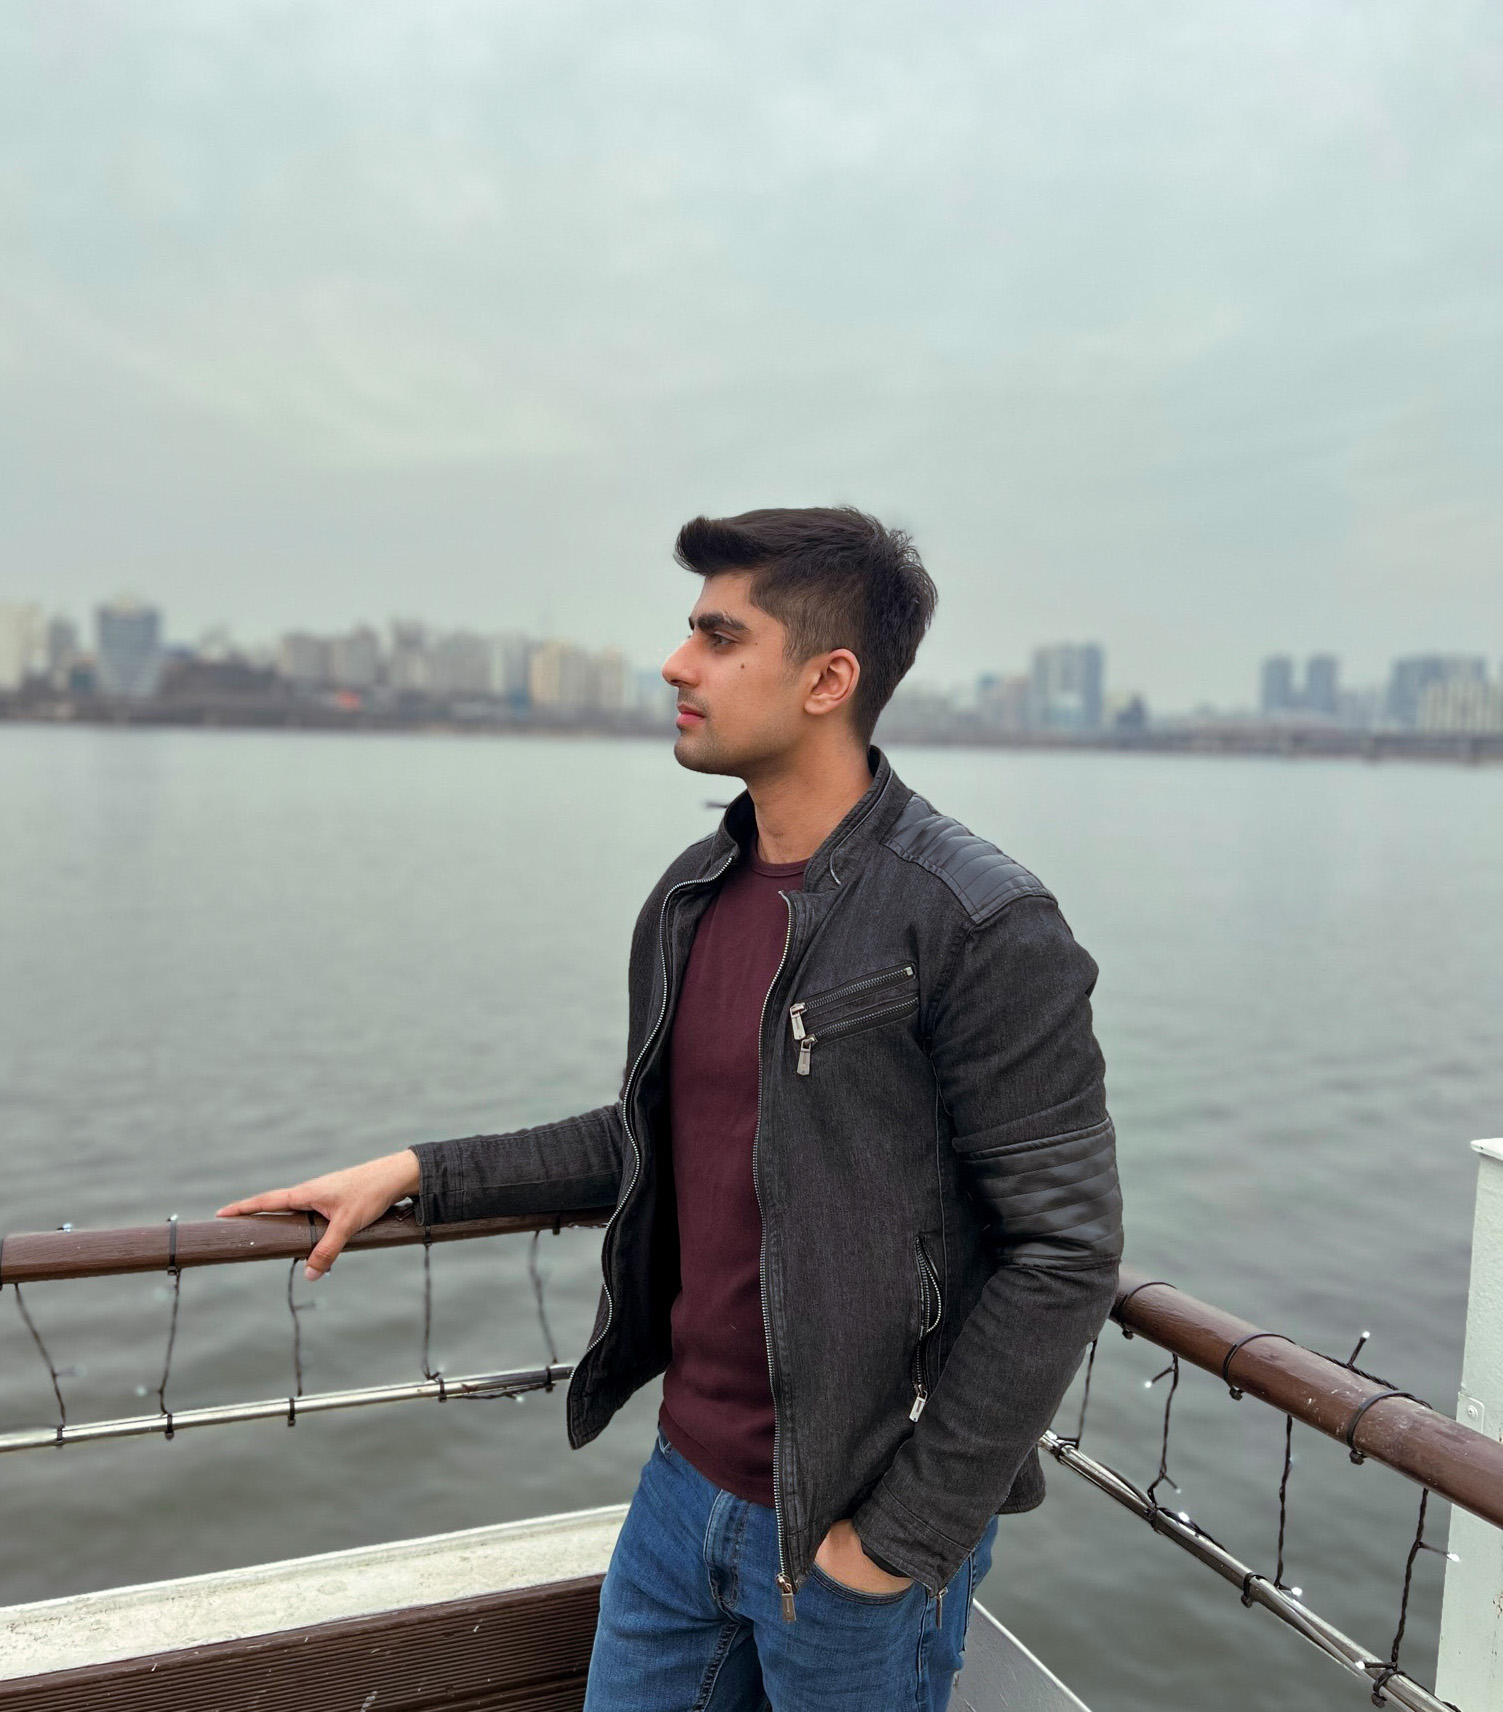
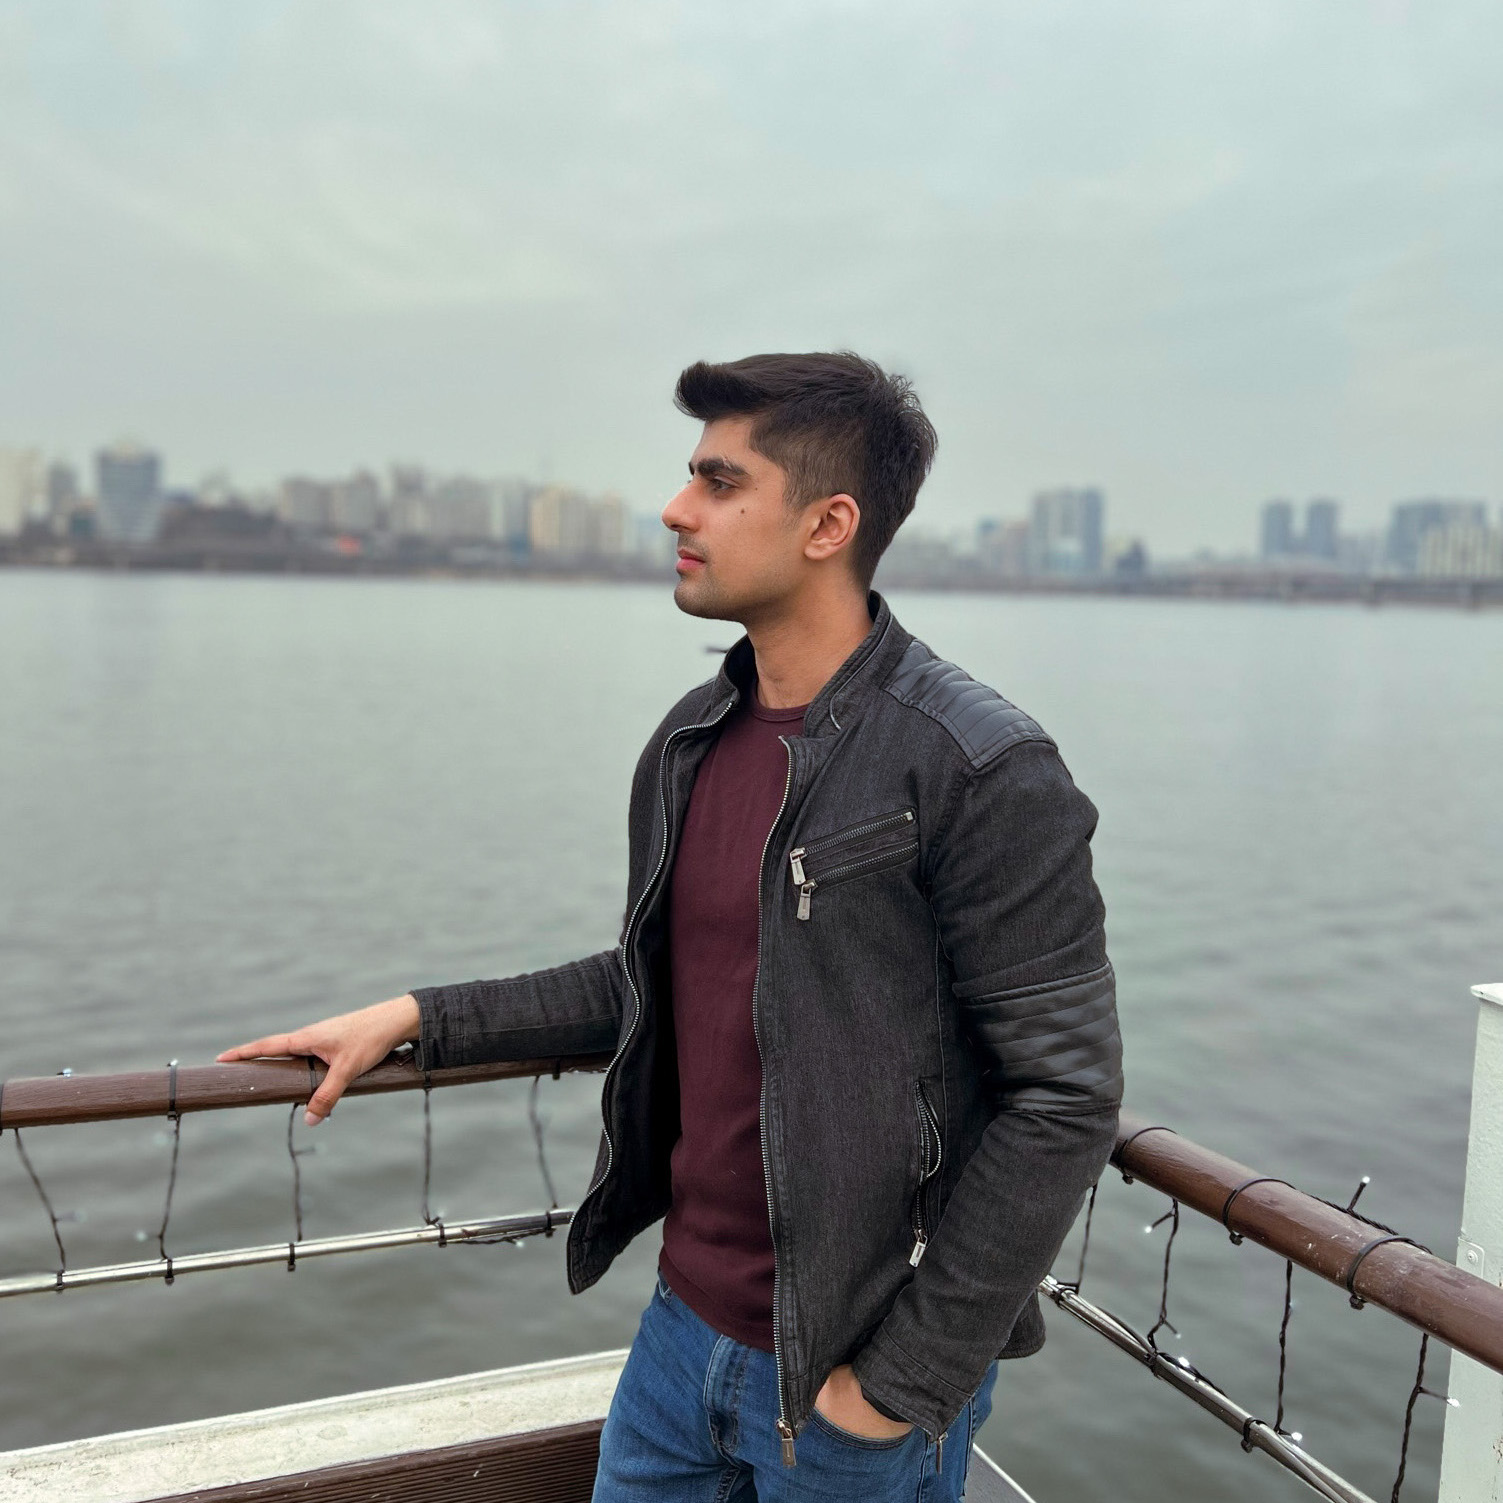
Updated Metadata and ProfImage

Changed region(s): [[0.0, 0.2142, 1.0, 0.7345], [0.0, 0.7345, 1.0, 1.0], [0.9794, 0.6427, 1.0, 0.7039]]

diff --git a/_includes/metadata.html b/_includes/metadata.html
@@ -29,14 +29,14 @@
         {%- if page.title == nil or page.title == "" -%}
             {{ page.date | date: "%Y" }} | {{ title }}
         {%- else -%}
-            {{ page.title }} | {{ title }}
+            {{ page.title }} 
         {%- endif -%}
     {%- else -%}
         {{ title }}
     {%- endif -%}
     </title>
     <meta name="author" content="{{ site.first_name }} {{ site.middle_name }} {{ site.last_name }}" />
-    <meta name="description" content="{%- if page.description -%}{{ page.description }}{%- else -%}{{ site.description }}{%- endif -%}" />
+    <meta name="description" content="{%- if page.description -%}{{ page.description }}{%- else -%}{{ page.title }}{%- endif -%}" />
 {%- if page.keywords or site.keywords %}
     <meta name="keywords" content="{%- if page.keywords -%}{{ page.keywords }}{%- else -%}{{ site.keywords }}{%- endif -%}" />
 {%- endif %}

diff --git a/_pages/about.md b/_pages/about.md
@@ -7,7 +7,7 @@ subtitle: <a href=https://www.kaist.ac.kr/en/>KAIST</a> <a href=https://gsai.kai
 profile:
   align: right
   image: prof_pic.jpg
-  image_circular: false # crops the image to make it circular
+  image_circular: true # crops the image to make it circular
   address: >
     <small> Address: Kim Jaechul AI Graduate School, Building 9,
     85 Hoegi-ro, Cheongnyangri-dong, Dongdaemun-gu, Seoul </small>
@@ -19,9 +19,8 @@ social: true  # includes social icons at the bottom of the page
 ---
 
 <div class='info'>
- <h3 title='Hello in Arabic' style='font-family: adobe arabic'> السَّلَامُ عَلَيْكُمْ </h3>
-<strong style='color: #696969; display: inline'> Hmm... Anyways </strong>
-<p> I'm a PhD scholar of Artificial Intelligence at the Korea Advance Institute of Science and Technology (KAIST). I am working in <a href="https://xfact.net/"> xfact</a> lab where I am being guided by two esteemed professors -  <a href='https://sites.google.com/a/kaist.edu/song-chong'>Song Chong</a> and <a href='https://jamesthorne.com/'> James Thorne</a>. My research interest is to help AI take over the world, specifically
+<h3 title='Hello in Arabic' style='font-family: adobe arabic'> السَّلَامُ عَلَيْكُمْ </h3>
+<p> I am a PhD scholar in <u>Kim Jaechul Graduate School of AI</u> at <u>Korea Advanced Institute of Science and Technology</u>. I am working in <a href="https://xfact.net/"> xfact</a> lab where I am being guided by two esteemed professors -  <a href='https://sites.google.com/a/kaist.edu/song-chong'>Song Chong</a> and <a href='https://jamesthorne.com/'> James Thorne</a>. My research interest is to help AI take over the world, specifically
 <ul>
   <li> Creativity, Imagination, and Reasoning abilities of LLMs </li>
   <li> Continual Learning and Adaptivity of  LLMs</li>
